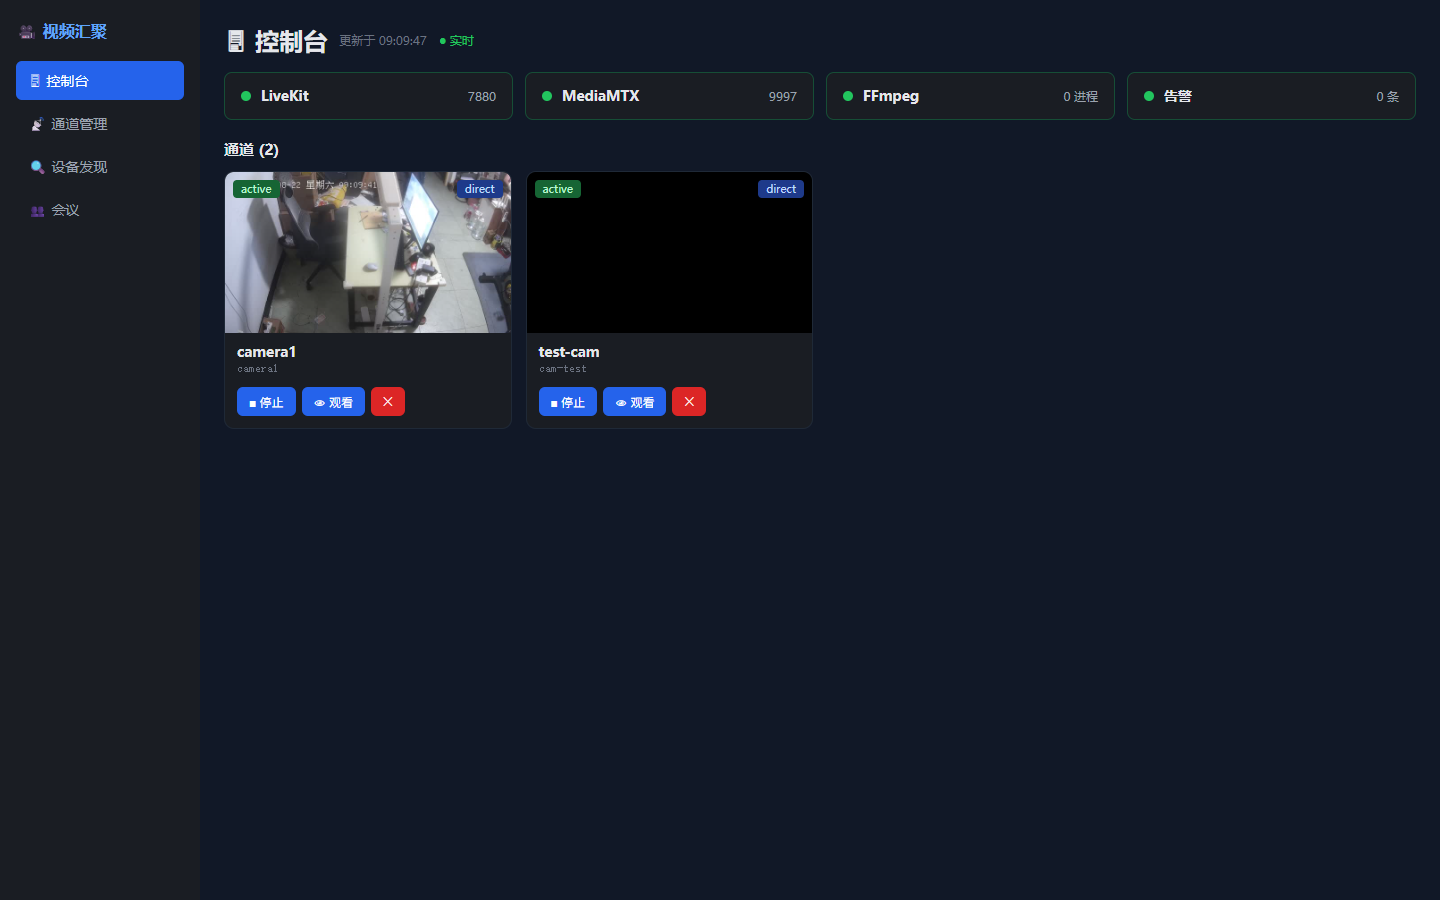
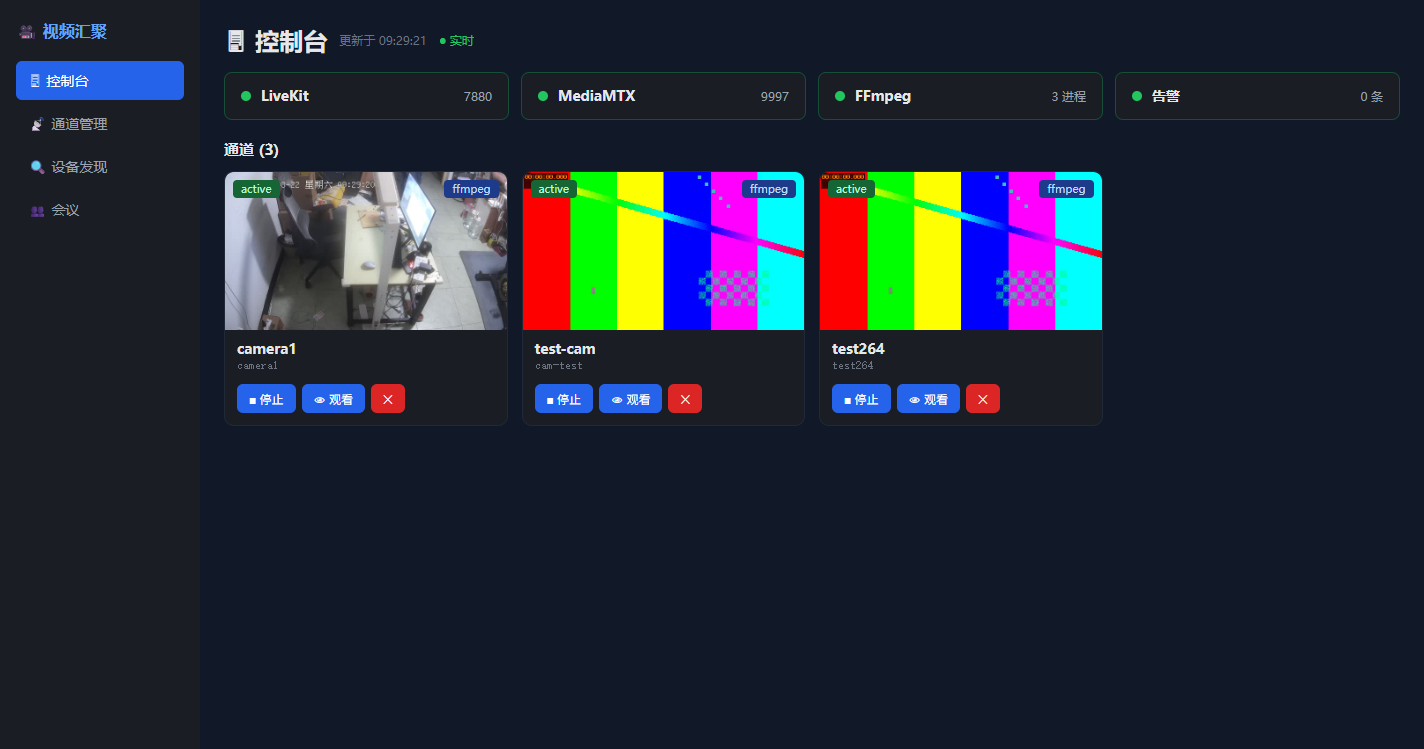
fix: P0-2 打通 ingress 链路 — Player 出真实画面
根因 (三层):
1. LiveKit 1.13.5 的 ingress 是独立进程/容器 (非内嵌), 1935 无人监听
   → 用 compose 的 livekit/ingress 容器, redis 走 docker, livekit 走宿主网络
2. ingress 会话被拒: cpu_cost 配置为 0 低于最低要求 (rtmp:1/whip:1)
   → deploy/ingress.yaml 补 cpu_cost (rtmp:2/whip:2/url:2/whip_bypass:0.1)
3. H.265 视频经 mediamtx RTMP 转发后 ingress 无法发布视频轨
   → H.265 摄像头必须 mode=ffmpeg (宿主 ffmpeg libx264 转码 H.264 再推)

修复:
- push.go: -rtsp_transport 仅限 RTSP 源 (文件源报 Option not found); 文件源加 -stream_loop -1 (演示通道循环)
- api/server.go: 快照同源修复
- 验证: camera1 真摄像头 1280x720 播放 (videoWidth/videoHeight/playing=true),
  控制台 3 通道缩略图全亮 (camera1 实景 + 2 测试图案), 零告警
- 新增 scripts/cdp-shot.mjs (真实时间 CDP 截图, WebRTC 页面用)
- 新增 deploy/ingress-native.yaml (ingress 独立配置文档)

diff --git a/server/internal/push/push.go b/server/internal/push/push.go
@@ -7,6 +7,7 @@ import (
 	"log"
 	"os"
 	"os/exec"
+	"strings"
 	"sync"
 )
 
@@ -91,9 +92,17 @@ func (m *Manager) Bin() string { return m.ffmpegBin }
 func buildArgs(source, rtmpURL, transcode string) []string {
 	args := []string{
 		"-hide_banner", "-loglevel", "warning",
-		"-rtsp_transport", "tcp", // TCP 更可靠, 避免 UDP 丢包
-		"-i", source,
 	}
+
+	isRTSP := strings.HasPrefix(source, "rtsp://") || strings.HasPrefix(source, "rtsps://")
+	if isRTSP {
+		// TCP 更可靠, 避免 UDP 丢包 (仅 RTSP 源可用该选项)
+		args = append(args, "-rtsp_transport", "tcp")
+	} else {
+		// 文件源循环播放 (演示通道用)
+		args = append(args, "-stream_loop", "-1")
+	}
+	args = append(args, "-i", source)
 
 	if transcode == "h264" {
 		// H.265/其他 → H.264 (软件编码, 无 low_delay 标志, 兼容 B 帧 HEVC)

diff --git a/server/internal/api/server.go b/server/internal/api/server.go
@@ -192,14 +192,20 @@ func (s *Server) handleSnapshot(w http.ResponseWriter, r *http.Request) {
 	defer cancel()
 
 	bin := s.deps.Push.Bin()
-	cmd := exec.CommandContext(ctx, bin,
+	args := []string{
 		"-hide_banner", "-loglevel", "error",
-		"-rtsp_transport", "tcp",
 		"-i", input,
+	}
+	if strings.HasPrefix(input, "rtsp://") || strings.HasPrefix(input, "rtsps://") {
+		// TCP 更可靠 (仅 RTSP 源可用该选项)
+		args = append(args, "-rtsp_transport", "tcp")
+	}
+	args = append(args,
 		"-frames:v", "1",
 		"-vf", "scale=640:-2",
 		"-f", "image2", "-vcodec", "mjpeg", "pipe:1",
 	)
+	cmd := exec.CommandContext(ctx, bin, args...)
 	var buf bytes.Buffer
 	cmd.Stdout = &buf
 	cmd.Stderr = io.Discard
